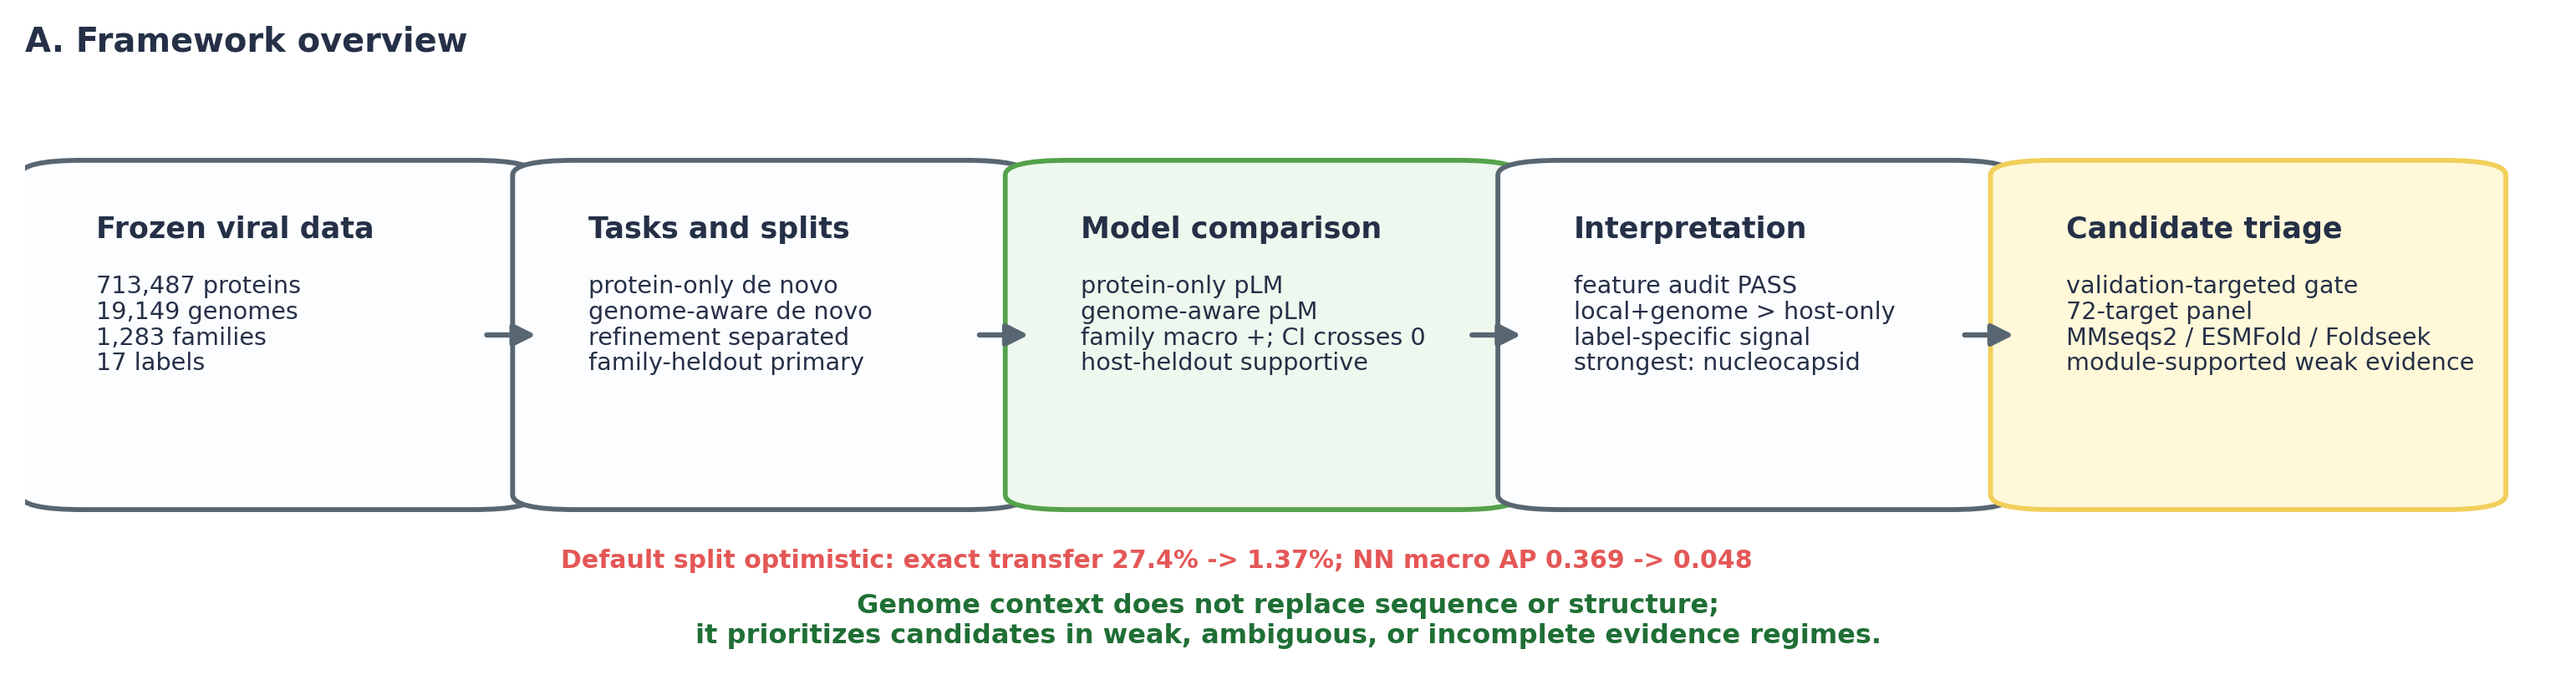
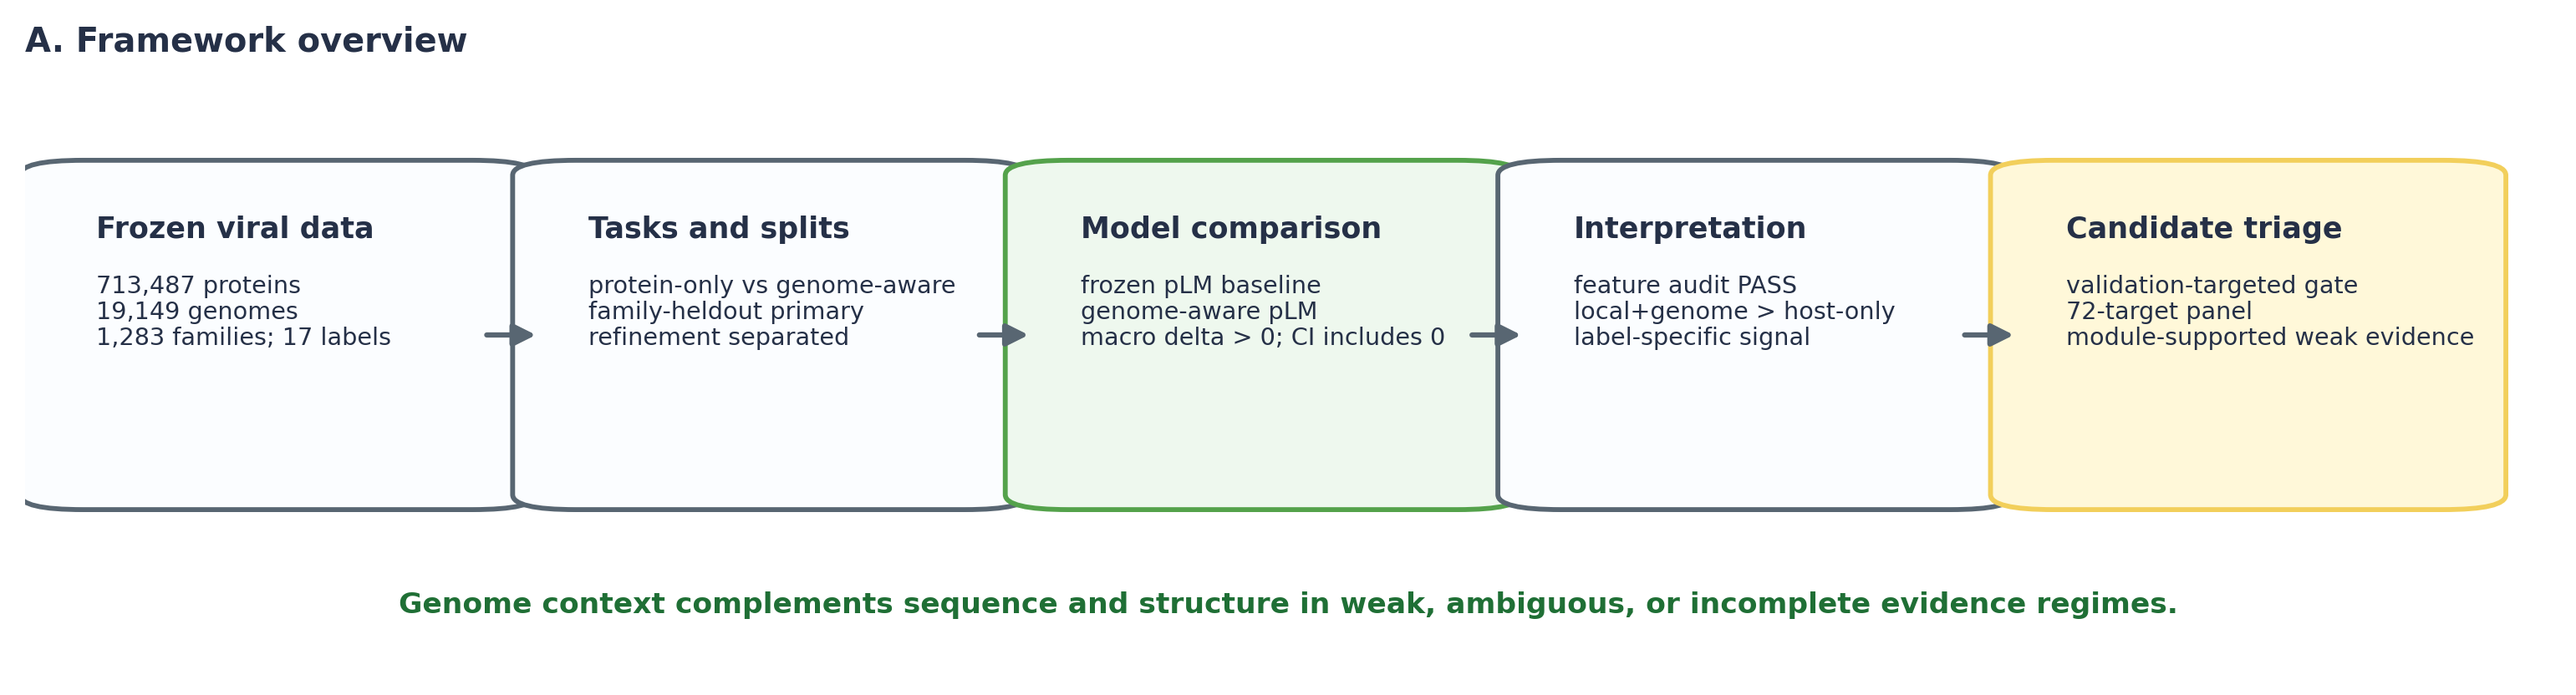
Polish Figure 1 cover schematic

diff --git a/scripts/build_v2_figure1_overview_framework.py b/scripts/build_v2_figure1_overview_framework.py
@@ -101,35 +101,35 @@ def draw_panel_a(ax) -> None:
         (
             0.01,
             "Frozen viral data",
-            "713,487 proteins\n19,149 genomes\n1,283 families\n17 labels",
+            "713,487 proteins\n19,149 genomes\n1,283 families; 17 labels",
             "#FBFDFF",
             PALETTE["line"],
         ),
         (
             0.205,
             "Tasks and splits",
-            "protein-only de novo\ngenome-aware de novo\nrefinement separated\nfamily-heldout primary",
+            "protein-only vs genome-aware\nfamily-heldout primary\nrefinement separated",
             "#FBFDFF",
             PALETTE["line"],
         ),
         (
             0.40,
             "Model comparison",
-            "protein-only pLM\ngenome-aware pLM\nfamily macro +; CI crosses 0\nhost-heldout supportive",
+            "frozen pLM baseline\ngenome-aware pLM\nmacro delta > 0; CI includes 0",
             "#EEF8EE",
             PALETTE["context"],
         ),
         (
             0.595,
             "Interpretation",
-            "feature audit PASS\nlocal+genome > host-only\nlabel-specific signal\nstrongest: nucleocapsid",
+            "feature audit PASS\nlocal+genome > host-only\nlabel-specific signal",
             "#FBFDFF",
             PALETTE["line"],
         ),
         (
             0.79,
             "Candidate triage",
-            "validation-targeted gate\n72-target panel\nMMseqs2 / ESMFold / Foldseek\nmodule-supported weak evidence",
+            "validation-targeted gate\n72-target panel\nmodule-supported weak evidence",
             "#FFF8D9",
             PALETTE["yellow"],
         ),
@@ -147,21 +147,12 @@ def draw_panel_a(ax) -> None:
         )
 
     ax.text(
-        0.212,
-        0.17,
-        "Default split optimistic: exact transfer 27.4% -> 1.37%; NN macro AP 0.369 -> 0.048",
-        transform=ax.transAxes,
-        fontsize=7.2,
-        color=PALETTE["risk"],
-        fontweight="bold",
-    )
-    ax.text(
         0.5,
-        0.045,
-        "Genome context does not replace sequence or structure;\nit prioritizes candidates in weak, ambiguous, or incomplete evidence regimes.",
+        0.095,
+        "Genome context complements sequence and structure in weak, ambiguous, or incomplete evidence regimes.",
         transform=ax.transAxes,
         ha="center",
-        fontsize=7.7,
+        fontsize=8.3,
         color="#1F6F35",
         fontweight="bold",
     )
@@ -178,7 +169,7 @@ def draw_panel_b(ax) -> None:
         0.42,
         0.68,
         "Allowed in de novo",
-        bullet_lines(["target embedding", "neighbor embeddings", "gene order / strand", "gaps, overlaps, segments"], 22),
+        bullet_lines(["target pLM embedding", "neighbor pLM embeddings", "non-text genome topology", "strand / gaps / overlaps / segments"], 25),
         fc="#EEF5FC",
         ec=PALETTE["protein"],
         title_size=7.3,
@@ -235,7 +226,7 @@ def draw_strict_zero(ax, rows: list[dict[str, str]]) -> None:
     ax.bar([label for _, label in metrics], vals, color=PALETTE["context"], width=0.62)
     ax.axhline(0, color="#404040", linewidth=0.8)
     panel_label(ax, "E", "Strict-zero exact-transfer sensitivity")
-    ax.set_ylabel("context - protein-only", fontsize=9)
+    ax.set_ylabel("Delta metric\n(genome-aware - protein-only)", fontsize=8.5)
     ax.set_ylim(0, max(vals) * 1.45)
     ax.grid(axis="y", color="#E5E7EB", linewidth=0.8)
     ax.set_axisbelow(True)
@@ -270,9 +261,9 @@ def draw_residual_audit(ax, rows: list[dict[str, str]]) -> None:
 
 def save_figure(fig, out_prefix: Path) -> None:
     out_prefix.parent.mkdir(parents=True, exist_ok=True)
-    fig.savefig(out_prefix.with_suffix(".png"), dpi=300, bbox_inches="tight")
-    fig.savefig(out_prefix.with_suffix(".pdf"), bbox_inches="tight")
-    fig.savefig(out_prefix.with_suffix(".svg"), bbox_inches="tight")
+    fig.savefig(out_prefix.with_suffix(".png"), dpi=300, bbox_inches="tight", pad_inches=0.25)
+    fig.savefig(out_prefix.with_suffix(".pdf"), bbox_inches="tight", pad_inches=0.25)
+    fig.savefig(out_prefix.with_suffix(".svg"), bbox_inches="tight", pad_inches=0.25)
 
 
 def build_cover(out_path: Path) -> None:
@@ -324,6 +315,7 @@ def main() -> int:
 
     plt.rcParams.update({"font.family": "DejaVu Sans", "svg.fonttype": "none"})
     fig = plt.figure(figsize=(13.2, 8.2))
+    fig.subplots_adjust(left=0.085, right=0.985, top=0.965, bottom=0.075)
     gs = GridSpec(3, 3, figure=fig, height_ratios=[0.88, 1.0, 1.02], hspace=0.36, wspace=0.36)
 
     draw_panel_a(fig.add_subplot(gs[0, :]))
